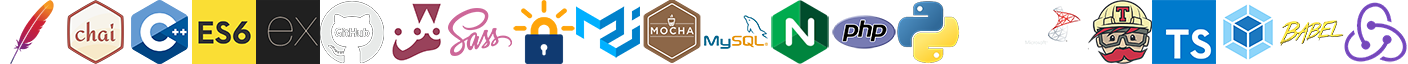
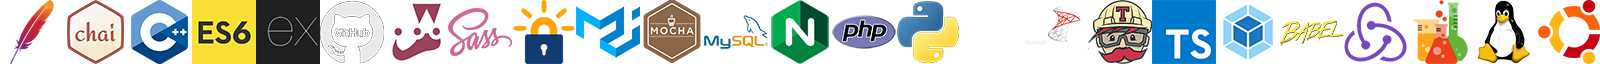
techs

diff --git a/src/components/routes/about-me/other-technologies/other-technologies.js b/src/components/routes/about-me/other-technologies/other-technologies.js
@@ -7,7 +7,7 @@ const technologies =
     'Apache', 'Chai', 'C++', 'ES6', 'express', 'GitHub', 'Jest', 'SASS',
     'LetsEncrypt', 'Material UI', 'Mocha', 'MySQL', 'nginx', 'PHP', 'Python',
     'React Native', 'SQL Server', 'TravisCI', 'TypeScript', 'Webpack', 'Babel',
-    'Redux'
+    'Redux', 'Enzyme', 'Linux', 'Ubuntu'
   ]
   .map((technology, index) =>
     [

diff --git a/src/components/routes/about-me/about-me-styles.js b/src/components/routes/about-me/about-me-styles.js
@@ -58,6 +58,7 @@ export default withStyles({
   seeNoEvil: {
     display: 'flex',
     flexDirection: 'column',
+    marginBottom: '3em',
     overflow: 'hidden',
     padding: 0,
     textAlign: 'center'
